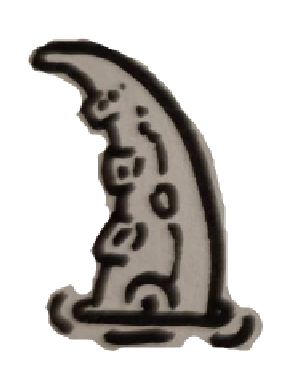
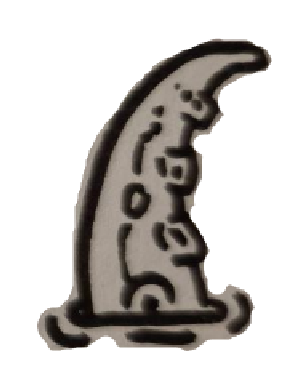
dynamic facing

diff --git a/src/gameLoop/visuals.ts b/src/gameLoop/visuals.ts
@@ -235,3 +235,81 @@ export function updateFogOfWar(
         g.visible = u.hp > 0 && vis === 2 && !isKrakenFullySubmerged(u.id);
     });
 }
+
+// =============================================================================
+// SPRITE FACING DIRECTION
+// =============================================================================
+
+// Track previous X position and last flip time per unit
+const prevX = new Map<number, number>();
+const prevZ = new Map<number, number>();
+const lastFlipTime = new Map<number, number>();
+
+const FACING_MOVE_THRESHOLD = 0.01;
+const FACING_FLIP_COOLDOWN = 300; // ms — prevent jittery flips
+
+/**
+ * Update facingRight on each UnitGroup based on movement direction or attack target position.
+ * Movement takes priority; when idle, face toward attack target.
+ * Facing changes are rate-limited to prevent jitter.
+ */
+export function updateSpriteFacing(
+    unitsState: Unit[],
+    unitsRef: Record<number, UnitGroup>
+): void {
+    const now = Date.now();
+
+    for (const unit of unitsState) {
+        if (unit.hp <= 0) continue;
+        const g = unitsRef[unit.id];
+        if (!g) continue;
+
+        const curX = g.position.x;
+        const lastX = prevX.get(unit.id);
+        prevX.set(unit.id, curX);
+
+        let wantRight: boolean | undefined;
+
+        if (lastX !== undefined) {
+            const dx = curX - lastX;
+            const dz = g.position.z - (prevZ.get(unit.id) ?? g.position.z);
+            // Project onto iso camera right vector (+X, -Z)
+            const screenDx = dx - dz;
+            if (Math.abs(screenDx) > FACING_MOVE_THRESHOLD) {
+                wantRight = screenDx > 0;
+            }
+        }
+        prevZ.set(unit.id, g.position.z);
+
+        // Not moving — face attack target if any
+        if (wantRight === undefined && g.userData.attackTarget !== null) {
+            const targetG = unitsRef[g.userData.attackTarget];
+            if (targetG) {
+                const dx = targetG.position.x - curX;
+                const dz = targetG.position.z - g.position.z;
+                const screenDx = dx - dz;
+                if (Math.abs(screenDx) > 0.1) {
+                    wantRight = screenDx > 0;
+                }
+            }
+        }
+
+        // Apply with cooldown
+        if (wantRight !== undefined && wantRight !== g.userData.facingRight) {
+            const last = lastFlipTime.get(unit.id) ?? 0;
+            if (now - last >= FACING_FLIP_COOLDOWN) {
+                g.userData.facingRight = wantRight;
+                lastFlipTime.set(unit.id, now);
+            }
+        }
+    }
+}
+
+/**
+ * Clear cached previous positions (call on area transition / game restart).
+ */
+export function resetSpriteFacing(): void {
+    prevX.clear();
+    prevZ.clear();
+    lastFlipTime.clear();
+}

diff --git a/src/input/index.ts b/src/input/index.ts
@@ -323,8 +323,8 @@ export function buildMoveTargets(
         .map(uid => unitsState.find(u => u.id === uid))
         .filter((u): u is Unit => u !== undefined && u.hp > 0);
 
-    // Single unit — move directly, no formation
-    if (alive.length <= 1) {
+    // Fewer than 3 units — move directly, no formation
+    if (alive.length < 3) {
         return alive.map(u => ({ id: u.id, x: gx, z: gz, delay: 0 }));
     }
 
@@ -355,24 +355,23 @@ export function buildMoveTargets(
         return (ai === -1 ? 100 + a.id : ai) - (bi === -1 ? 100 + b.id : bi);
     });
 
-    // Distance-based stagger: units with shorter paths delay so everyone
-    // arrives at roughly the same time, preserving formation shape in transit
+    // Distance-based stagger: back-row units with shorter paths delay so the
+    // formation arrives together. Front unit (slot 0) is the baseline — never waits.
     const UNITS_PER_SEC = MOVE_SPEED * 40;
-    let maxDist = 0;
     const entries: { id: number; x: number; z: number; dist: number }[] = [];
     for (let i = 0; i < sorted.length; i++) {
         const pos = positions[i] ?? { x: gx, z: gz };
         const g = unitsRef[sorted[i].id];
         const d = g ? Math.hypot(pos.x - g.position.x, pos.z - g.position.z) : 0;
         entries.push({ id: sorted[i].id, x: pos.x, z: pos.z, dist: d });
-        if (d > maxDist) maxDist = d;
     }
 
+    const frontDist = entries[0].dist;
     return entries.map(e => ({
         id: e.id,
         x: e.x,
         z: e.z,
-        delay: maxDist > 0 ? Math.round((maxDist - e.dist) / UNITS_PER_SEC * 1000) : 0,
+        delay: frontDist > 0 ? Math.max(0, Math.round((frontDist - e.dist) / UNITS_PER_SEC * 1000)) : 0,
     }));
 }
 

diff --git a/src/hooks/useThreeScene.ts b/src/hooks/useThreeScene.ts
@@ -9,7 +9,7 @@ import { getCurrentArea } from "../game/areas";
 import type { Unit, FogTexture, Projectile, SwingAnimation, DamageText, UnitGroup, SanctuaryTile } from "../core/types";
 import type { AcidTile, LootBag } from "../core/types";
 import { createScene, updateChestStates, updateCamera, type DoorMesh, type SecretDoorMesh, type ChestMeshData } from "../rendering/scene";
-import { resetFogCache, clearChargeAttacks, clearCurses, clearGlares, clearLeaps, clearTentacles, resetLootBagIds } from "../gameLoop";
+import { resetFogCache, resetSpriteFacing, clearChargeAttacks, clearCurses, clearGlares, clearLeaps, clearTentacles, resetLootBagIds } from "../gameLoop";
 import { resetAllBroodMotherScreeches } from "../game/enemyState";
 import { resetBarks } from "../combat/barks";
 import { initializeEquipmentState } from "../game/equipmentState";
@@ -169,6 +169,7 @@ export function useThreeScene({
 
         // Reset module-level caches on game restart
         resetFogCache();
+        resetSpriteFacing();
         resetAllBroodMotherScreeches();
         resetBarks();
         initializeEquipmentState();

diff --git a/src/gameLoop/index.ts b/src/gameLoop/index.ts
@@ -19,7 +19,7 @@ import { getAliveUnitsInRange } from "../combat/damageEffects";
 import { isEnemyKiting, clearEnemyKiting } from "../game/enemyState";
 
 // Re-export from split modules
-export { updateDamageTexts, updateHitFlash, updatePoisonVisuals, updateEnergyShieldVisuals, updateFogOfWar, resetFogCache } from "./visuals";
+export { updateDamageTexts, updateHitFlash, updatePoisonVisuals, updateEnergyShieldVisuals, updateFogOfWar, resetFogCache, updateSpriteFacing, resetSpriteFacing } from "./visuals";
 export { processStatusEffects } from "./statusEffects";
 export { updateProjectiles } from "./projectiles";
 export { spawnSwingIndicator, updateSwingAnimations } from "./swingAnimations";

diff --git a/src/hooks/useGameLoop.ts b/src/hooks/useGameLoop.ts
@@ -31,7 +31,8 @@ import {
     processGlares,
     updateLeaps,
     updateTentacles,
-    updateSubmergedKrakens
+    updateSubmergedKrakens,
+    updateSpriteFacing
 } from "../gameLoop";
 import type { ActionQueue } from "../input";
 import type { ThreeSceneState, GameRefs } from "./useThreeScene";
@@ -446,6 +447,9 @@ export function useGameLoop({
 
             // Water animation
             updateWater(waterMesh, now);
+
+            // Sprite facing direction (before billboard rotation so scale is current)
+            updateSpriteFacing(stateRefs.unitsStateRef.current, unitGroups);
 
             // Billboard rotation
             updateBillboards(billboards, camera);

diff --git a/src/rendering/scene/updates.ts b/src/rendering/scene/updates.ts
@@ -52,6 +52,12 @@ export function updateWater(_waterMesh: THREE.Mesh | null, _time: number): void 
 export function updateBillboards(billboards: THREE.Mesh[], camera: THREE.Camera): void {
     for (const billboard of billboards) {
         billboard.quaternion.copy(camera.quaternion);
+        const group = billboard.parent as UnitGroup | null;
+        if (group?.userData?.facingRight === false) {
+            billboard.scale.x = -Math.abs(billboard.scale.x);
+        } else {
+            billboard.scale.x = Math.abs(billboard.scale.x);
+        }
     }
 }
 

diff --git a/src/core/types/world.ts b/src/core/types/world.ts
@@ -60,6 +60,7 @@ export interface UnitGroup extends THREE.Group {
         lastHitTime?: number;  // Timestamp when unit last took damage (for kiting AI)
         lastDamageSource?: { x: number; z: number; time: number };  // Position of last attacker (for shield facing)
         pendingMove?: boolean;  // Set when formation move is queued with delay, cleared on execution
+        facingRight?: boolean;  // Sprite facing direction (true = right, default)
     };
 }
 
